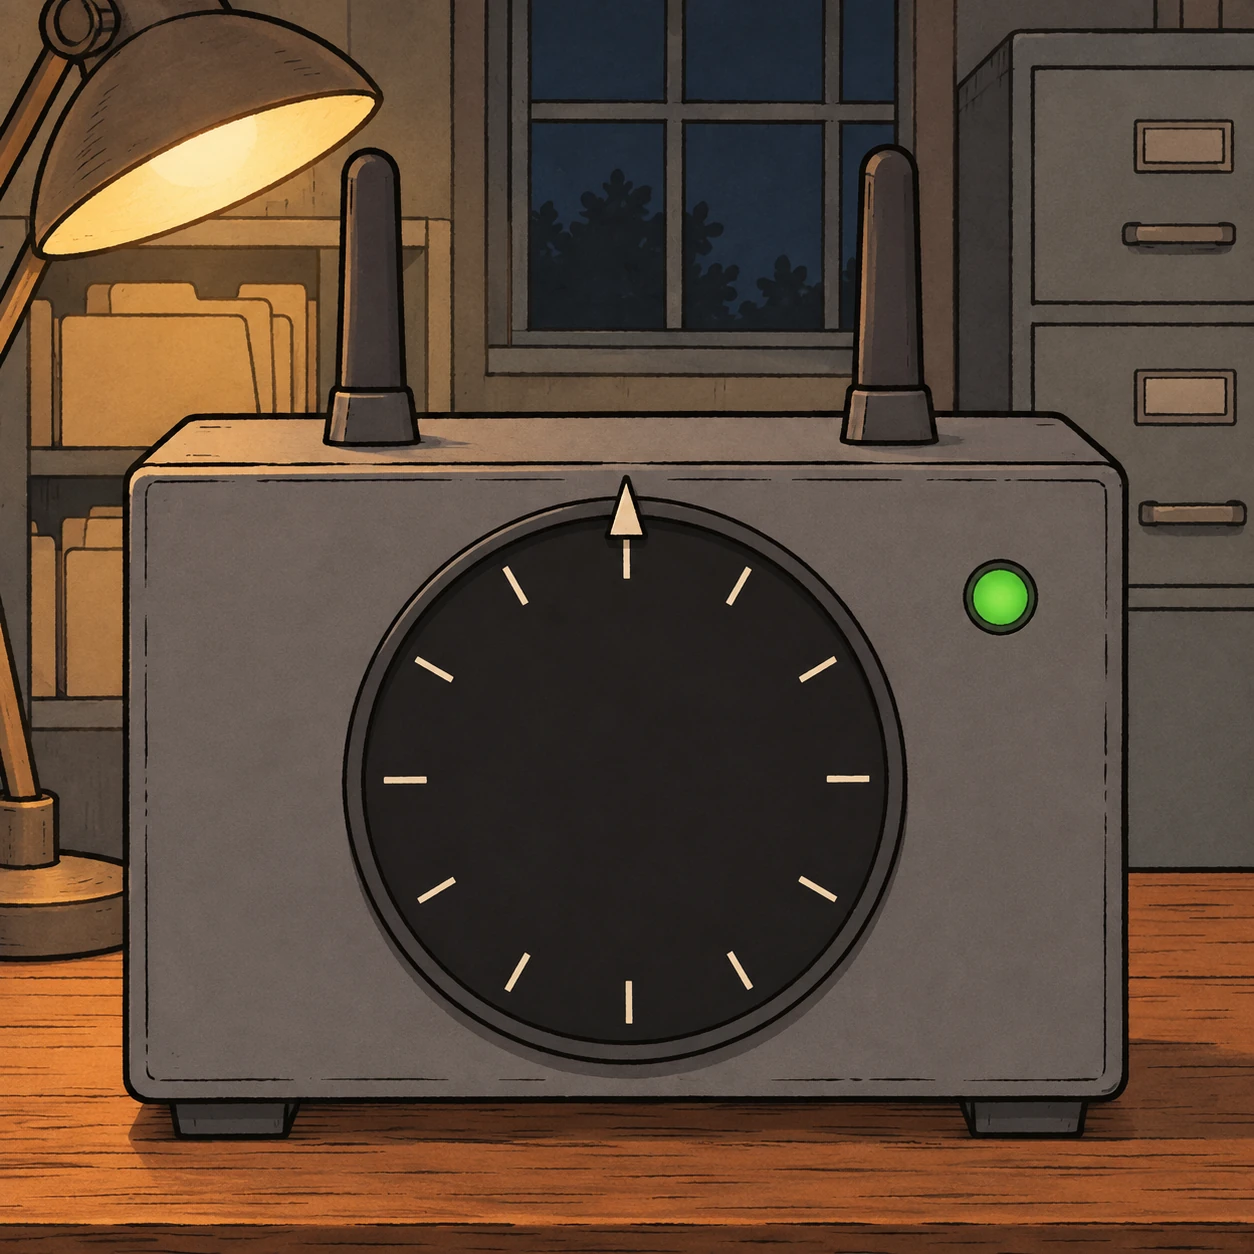
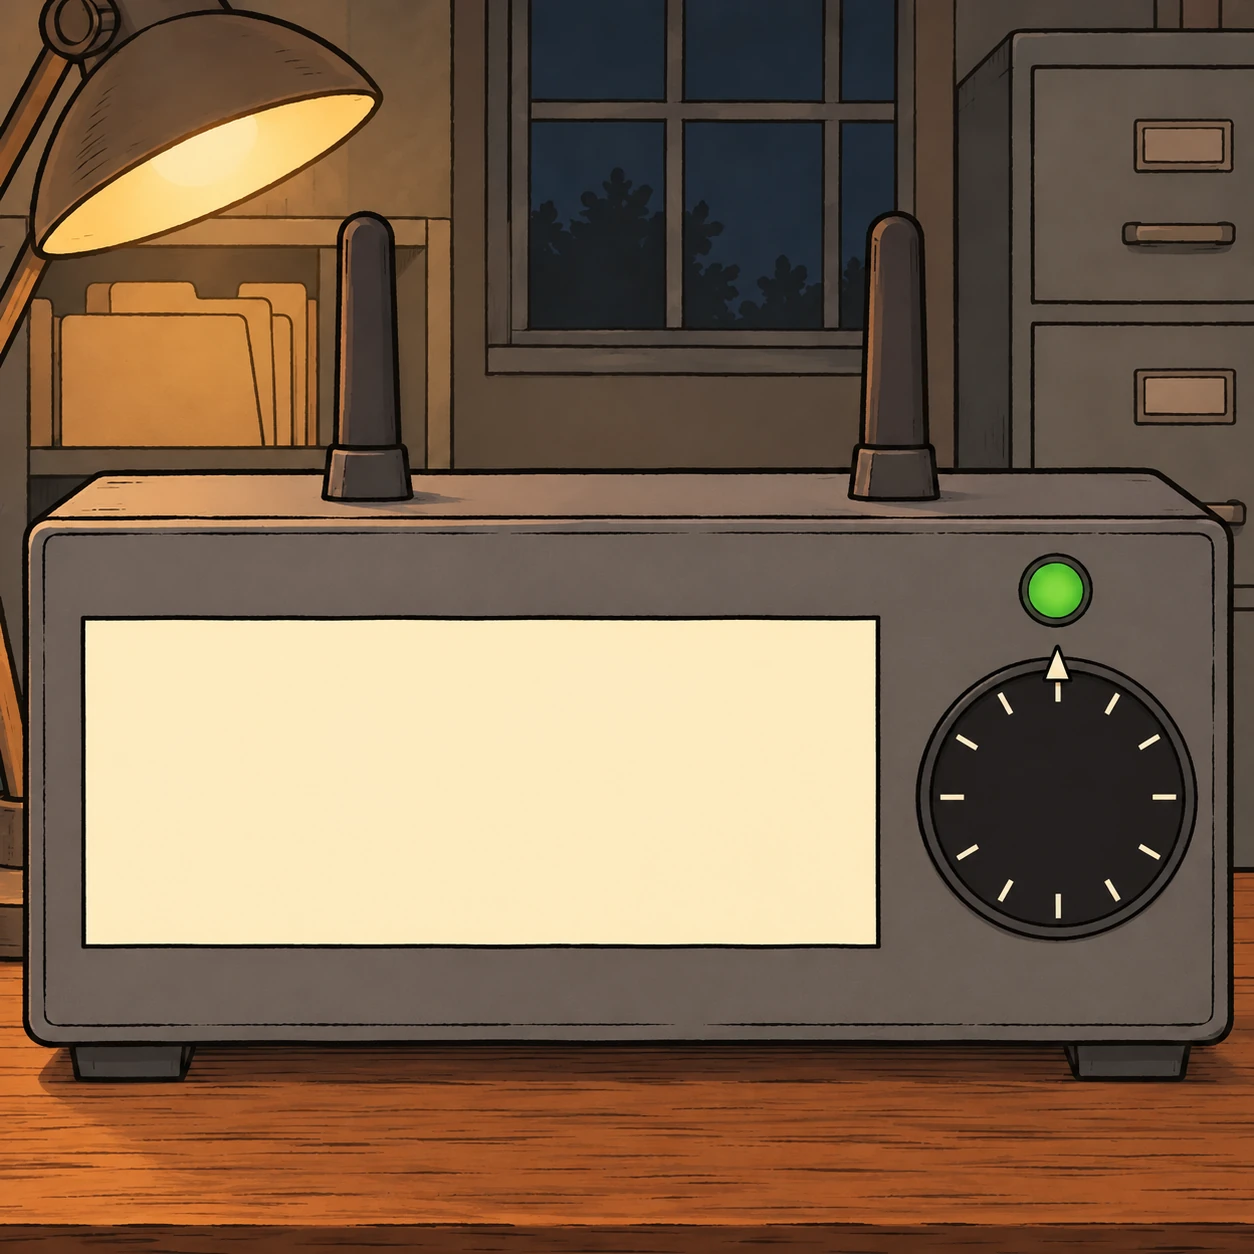
ANSWER-BOX-ART-SWAP: Roll's plans keypad and Prom's router redrawn; both answer boxes over the 20 x 4.5 mm floor (#769)
Lane: cloud, under Jon's lane exception of 14 Nov 21:45 for `tools/pack-generator/rooms/roll-for-initiative/` and `rooms/prom-budget/` (the two art files and their config `label_box` only) and `docs/todo.md`. Tier: Medium, merges on a green Gate; Project Claude reviews after merge. Not a draft. No merge-order dependency. Nothing a student or teacher sees on the site changes (the packs are unpublished DRAFT PDFs), so /updates/ has no line. No PDF and no PNG is committed.

## Jon's rulings (verbatim)

- 14 Nov 16:40, the box floor: "20 x 4.5 mm (Recommended)".
- 14 Nov 21:07: "I'll take those 2 art prompts please".
- 14 Nov 21:27, the two pictures uploaded: "ok that is done".
- 14 Nov 21:45: "anything else for cloud lane ?" (this task to cloud).

## Close-out carried (first commit, 5003a17)

ANSWER-BOX-CHECK (#767): merged as 3db30f1 via the GitHub connection under the standing ruling of 10 Nov 2026 (gh auth failed); main's check-site 43623614027 and phone-fit-full 43623613951 on 3db30f1, both green on the first attempt (from this contract, and read again through the GitHub connection: both `conclusion: success`, `run_attempt: 1`, head 3db30f1). Its contract moved to `docs/history/contracts/`; its entry in `docs/handover/cloud.md` records the merge commit, the route and the two runs.

## The two pictures
[…]

diff --git a/docs/todo.md b/docs/todo.md
@@ -287,7 +287,7 @@ see the START block's NEXT line. | **Code Claude**, batch by batch; **Jon** rule
 | KILN-FOLLOW-UPS | **The Kiln Disaster's follow-ups, RULED 29 Sep 2026 (Jon), not built on 11 Nov 2026.** (1) **Name him.** Add Mr Stephen Mudge's real name to the teacher page alongside "Smudgey", so a teacher opening it cold isn't confused (the name is only in `escape-rooms/kiln-disaster/room.js:43`'s hook, which `teacher.js` does not show). (2) **Add the explanation.** Document on the teacher page (not just canon §11.3) that a group hitting only named misconceptions skips some of Smudgey's wrong-entry lines by design. (3) **Set a floor on `a`.** Constrain the check-value lock generator so no future variant lands as lopsided as "2 + 48 ÷ 2" (`scripts/gen-escape-variants.py:638`; that variant is still in `room.js`). Moved from §6 (TODO-TIDY). | home lane (the shared variant generator) |
 | MONEY-THOUSANDS | **Money answers not in whole pounds, left unboxed by MONEY-ANSWERS (CLOUD-QUEUE-1111 PR 2, 11 Nov 2026) for Jon to rule.** MONEY-ANSWERS boxed every typed answer in pounds (£, £/kg, £/m, £/litre); these answers are amounts of money in another unit, and a £ inside the box would misstate them, so each is unchanged. **£k (thousands of pounds):** `stat-attack` CM1 'Annual salaries (£k)' and CM4 'House prices (£k)' (mean, midpoints, fx, standard deviation typed; the unit shows only in the table's class label, 'Salary (£k)', 'Price (£k)'); `chart-interrogator` B4, B5 (box plots) and CF4, CF6 (cumulative frequency) (Phase 1 readings typed in thousands; the unit shows in the context title and axis, '(£k)', and Phase 2's text writes £28k); `graph-sketcher` CM2 and CM13 (table values and reads of P, axis 'P (£k)'). **£100s:** `as-you-can-see` Stage 4's 'Value (£100s)' scatter (the estimate of y and the outlier's value, axis 'Value (£100s)'). **Pence:** `estimation-golf` 'If 8 pencils cost 96p, what does 1 pencil cost in pence?' (unit 'p', shown after the box). **Escape rooms (shared `escape-rooms/assets/engine.js`, home lane; outside MONEY-ANSWERS' lane exception):** `prom-budget` 'Transfer amount — whole pounds' and `library-jam` 'TOTAL TO REVERSE, IN POUNDS' (keypads, whose typed fallback keeps digits only, so a typed £ is dropped, not an emptied box), `big-school-begins` 'LEFT ON THE CARD (PENCE)' (keypad, pence), `canteen-hack` 'Baseline prices — whole pounds' (two dials whose typed fallback is `type="number"`, so a typed £ empties it; the rooms do not load answer.js). To rule: how each unit is boxed or shown (a £ box with 'thousands' beside it, the unit written after the box, or as it is), and whether the room engine gets money boxes. Recorded 11 Nov 2026 (contract CLOUD-QUEUE-1111, PR 2). | Jon (ruling); home lane (the room engine) |
 | CAR-TRAP-PACK-APPROVE | **The Headteacher's Car Trap's print pack: Jon proofreads the PDF and approves its wording** (contract CAR-TRAP-PACK and its Amendment 1, 14 Nov 2026). `tools/pack-generator/rooms/car-trap/config.json` has `wording_approved: null`, so pages 1 and 2 carry the DRAFT badge and `--final` refuses. Build it at home with `python -X utf8 tools/pack-generator/build_pack.py car-trap` (36 pages, 6 sets), proofread against the README's "What to proofread" 1-8, then record the approval in the config. Then the `--final` build goes to Tes; with Prom Budget and Roll for Initiative (CORE-PACKS-ROLL-PROM) it completes the ★★ Core bundle. **To look at:** (1) the bay width is asked for in centimetres (answer box "Bay width cm", key "215 cm"), and wherever the room's words give the answer or the wrong answer the pack gives both units (Amendment 2: hint 3 "2.45 m = 245 cm", the key's note "2.20 m = 220 cm", the worked solution); the bounds ("2.15 m ≤ width < 2.25 m", "from 2.15 m up to 2.25 m") and the specification's width stay in metres; (2) every clue card prints words from the config (`printed` and `caption`), listed in the PR; (3) Jon's defaults of 14 Nov: the charger's sticker says LOAD LIMITER and the formula is in bold in the caption (the sticker is 342 px wide, the longest formula needs 448 px at 11 pt), and the hatchback's sign is blank (250 × 134 px); new art with a sticker at least 520 px wide and a sign of about 900 × 500 px would let both print on the picture; (4) the hatchback is purple on its card and pale blue in the room's scene and win pictures (Jon, 14 Nov: leave it); (5) the long story: read-outs at 10 pt, the certificate's picture at 72% and the covers' at 73%. | Jon |
-| ROLL-PROM-PACKS-APPROVE | **Roll for Initiative's and The Prom Budget Embezzlement's print packs: Jon proofreads both PDFs and approves their wording** (contract CORE-PACKS-ROLL-PROM and its Amendment 1, 14 Nov 2026). Both configs have `wording_approved: null`, so the DRAFT badge is on page 1 and the read-outs and `--final` refuses. Build at home with `python -X utf8 tools/pack-generator/build_pack.py roll-for-initiative` (36 pages) and `python -X utf8 tools/pack-generator/build_pack.py prom-budget` (37 pages), proofread against the README's "What to proofread" 1-8, then record each approval in its config. With Car Trap (CAR-TRAP-PACK-APPROVE) the ★★ Core bundle can then be listed. **To look at, and new art to order (Jon, 14 Nov: ship as DRAFT, list for new art):** (1) Prom's card for The bronze bust shows a cash box (`prom-08-cash-box`; the art prompt barred statues), labelled "The practice version." from the bust's flavour text: a bust, or a different object, is wanted; (2) after ANSWER-BOX-CHECK (14 Nov: dark answer boxes print white, so Prom's portal keypad, 22.7 × 6.4 mm, and Roll's gate keypad, 22.5 × 5.3 mm, can be written on; Roll's spell keypad box is now 23.3 × 4.7 mm), two answer boxes are still under the 20 × 4.5 mm minimum, and no plain surface in either picture reaches it: Prom's router (6.5 × 23.9 mm, on its side panel) and Roll's plans keypad (14.8 × 3.3 mm). Each pack builds as a DRAFT with the box listed on page 1; once its wording is approved, or with `--final`, the build stops until the box is big enough. New art wanted for both: a blank display or plate of about 480 × 150 px or more on the 1254 px picture; (3) nothing is printed on Prom's Christmas card (187 px wide: "It is not December." does not fit at 11 pt) or on Roll's notice-board card (126 px: "NOTICES." does not fit); (4) Prom's long story (798 words): read-outs on two pages, covers with no picture, the certificate's story at 12.5 pt; (5) every print-only wording (`printed` and `caption`) is listed in the PR; (6) the live room now has a 60% interest rate (£500 for 2 years) and a £3125 deposit (20% for 7 years): the only sets that make six answers. | Jon |
+| ROLL-PROM-PACKS-APPROVE | **Roll for Initiative's and The Prom Budget Embezzlement's print packs: Jon proofreads both PDFs and approves their wording** (contract CORE-PACKS-ROLL-PROM and its Amendment 1, 14 Nov 2026). Both configs have `wording_approved: null`, so the DRAFT badge is on page 1 and the read-outs and `--final` refuses. Build at home with `python -X utf8 tools/pack-generator/build_pack.py roll-for-initiative` (36 pages) and `python -X utf8 tools/pack-generator/build_pack.py prom-budget` (37 pages), proofread against the README's "What to proofread" 1-8, then record each approval in its config. With Car Trap (CAR-TRAP-PACK-APPROVE) the ★★ Core bundle can then be listed. **To look at, and new art to order (Jon, 14 Nov: ship as DRAFT, list for new art):** (1) Prom's card for The bronze bust shows a cash box (`prom-08-cash-box`; the art prompt barred statues), labelled "The practice version." from the bust's flavour text: a bust, or a different object, is wanted; (2) the answer boxes: none is under the 20 × 4.5 mm minimum now, and neither pack lists a box on page 1 (ANSWER-BOX-ART-SWAP, 14 Nov: Jon's redrawn pictures, each with a pale blank display; Roll's plans keypad box now measures 34.1 × 5.9 mm, was 14.8 × 3.3 mm, and Prom's router's 35.8 × 14.0 mm, was 6.5 × 23.9 mm; neither is filled. From ANSWER-BOX-CHECK: Prom's portal keypad, 22.7 × 6.4 mm, and Roll's gate keypad, 22.5 × 5.3 mm, print white; Roll's spell keypad box is 23.3 × 4.7 mm). No new art is owed for a box; (3) nothing is printed on Prom's Christmas card (187 px wide: "It is not December." does not fit at 11 pt) or on Roll's notice-board card (126 px: "NOTICES." does not fit); (4) Prom's long story (798 words): read-outs on two pages, covers with no picture, the certificate's story at 12.5 pt; (5) every print-only wording (`printed` and `caption`) is listed in the PR; (6) the live room now has a 60% interest rate (£500 for 2 years) and a £3125 deposit (20% for 7 years): the only sets that make six answers. | Jon |
 | COMIC-CAPER-REUPLOAD | **The Comic Caper's sold pack has changed: its covers print white answer boxes** (ANSWER-BOX-CHECK, 14 Nov 2026; pages 6, 10, 14, 18, 22 and 26, nothing else). Rebuild with `python -X utf8 tools/pack-generator/build_pack.py comic-caper --final` and replace the Tes file. | Jon |
 | CHRISTMAS-LIBRARY-KILN-REUPLOAD | **The Christmas Tree Fiasco's sold pack has changed: its hint cards (pages 30 to 35) keep "50 cm" on one line** (ANSWER-BOX-CHECK, 14 Nov 2026: a figure no longer parts from its unit; the same words, one line break moved). Rebuild with `python -X utf8 tools/pack-generator/build_pack.py christmas-tree-fiasco --final` and replace the Tes file. Library Jam's and Kiln Disaster's packs came out pixel-identical: nothing to do. | Jon |
 

diff --git a/docs/handover/contracts/2026-11-14-answer-box-art-swap.md b/docs/handover/contracts/2026-11-14-answer-box-art-swap.md
@@ -1,0 +1,26 @@
+ANSWER-BOX-ART-SWAP (Project Claude, Sat 14 Nov 2026 21:50)
+Recommended: Sonnet or Opus, effort medium: two pictures swapped and two label boxes set, with every other pack page held pixel-identical.
+LANE: cloud, a fresh session (read AGENTS.md and docs/handover/cloud.md's standing rules and container setup first). TIER: Medium (merge on green; Project Claude reviews after merge). START: now. One PR. Branch from current origin/main (8f2b84f or newer).
+LANE EXCEPTION (Jon, 14 Nov 21:45, "anything else for cloud lane ?", sending this swap to the cloud lane): this PR may change tools/pack-generator/rooms/roll-for-initiative/ and rooms/prom-budget/ (the two art files and their config label_box only), docs/todo.md. Home normally owns these.
+PARALLEL LANE: home may be working on the homepage (index.html) and the UGH-STATS-QUESTIONS close-out. Touch neither; if docs/todo.md conflicts, merge main in and keep both sides.
+CLOSE-OUT CARRIED (first commit): ANSWER-BOX-CHECK (#767, squash-merged as 3db30f1 through the GitHub connection under the standing ruling of 10 Nov 2026, gh auth failing): contract to docs/history/contracts/; cloud.md's entry (now "PR #767 OPEN") records the merge commit, the route, and main's check-site 43623614027 and phone-fit-full 43623613951 on 3db30f1, both green on the first attempt. Save this contract verbatim in docs/handover/contracts/ in the same commit.
+MERGE: merge-pr.py on a green Gate, or the standing 10 Nov merge-route ruling if gh auth fails (message = PR body word for word). After merge, delete the branch art/answer-box-redraws.
+
+JON'S RULINGS (verbatim in the PR body): 14 Nov 16:40, the box floor "20 x 4.5 mm (Recommended)"; 14 Nov 21:07, "I'll take those 2 art prompts please"; 14 Nov 21:27, the two pictures uploaded ("ok that is done"); 14 Nov 21:45, "anything else for cloud lane ?" (this task to cloud).
+
+TASK: Replace Roll for Initiative's plans keypad and Prom Budget's router with Jon's redrawn pictures, whose blank displays take an answer box above the 20 × 4.5 mm floor, so both packs build with no box under it.
+
+ROOT CAUSE: #767 found two answer boxes no surface on the current pictures could fix: Roll fortress-plan-scale (rfi-10-plans-keypad, 14.8 × 3.3 mm) and Prom wifi-venn-router (prom-11-router-dial, 6.5 × 23.9 mm). Jon has had both redrawn with a wide pale display: origin/art/answer-box-redraws (799748c), art-incoming/rfi-10-plans-keypad.png and art-incoming/prom-11-router-dial.png, 1254 × 1254 PNG.
+
+CLASS CHECK: Local. Two pictures and two config entries; the box rules (fill, floor) are already in the generator (#767) and are not touched.
+
+EXACT CHANGE:
+1. Take the two PNGs from origin/art/answer-box-redraws (git checkout that commit's files; do not merge the branch). Convert each to WebP at 1254 × 1254, replacing tools/pack-generator/rooms/roll-for-initiative/art/rfi-10-plans-keypad.webp and tools/pack-generator/rooms/prom-budget/art/prom-11-router-dial.webp (same names, so nothing else references change). Use the same encoder settings the existing pack art was made with if recorded (git log of those files); else Pillow WEBP, quality 90, method 6. State the method and the new file sizes. art-incoming/ never lands on main.
+2. label_box (measured by Project Claude on the PNGs; check them on your WebP and say if they differ):
+ - Roll fortress-plan-scale (rfi-10-plans-keypad): [262, 312, 991, 439]. The display's flat area is x 249–1003, y 301–450 (grey about 225); this box is inset 12–13 px, not 2%, because a 2% inset leaves exactly 4.5 mm high. Expected on the cover about 34.1 × 5.9 mm; grey about 225, so no fill.
+ - Prom wifi-venn-router (prom-11-router-dial): [98, 633, 863, 932]. Flat area x 86–874, y 621–943 (grey about 235). Expected about 35.7 × 14.0 mm; no fill.
+3. Build both packs (not --final: wording not yet approved). Both must report no answer box under the floor, and page 1's DRAFT notes must no longer list a box. Build the other five packs and compare with main's build page by page (text and pixels at 100 dpi): pixel-identical. In Roll and Prom, the only changed pages are the covers that carry these pictures and page 1 (the notes gone); list them.
+4. docs/todo.md: in ROLL-PROM-PACKS-APPROVE remove the two new-art items (say the boxes now measure X × Y mm); what remains is Jon's proofread and wording approval. cloud.md entry.
+DO NOT TOUCH: build_pack.py, final.py, lockcheck.py and every check; every other picture and every other field in the two configs; the room pages, variants.json, room.js; the other five rooms; index.html, ugh-stats/ and games/ (home lane). Never commit a PDF or the PNGs.
+SUCCESS CONDITION: both pictures on main as WebP; both boxes measured on the cover at or near the expected sizes and over the floor, unfilled; Roll and Prom build with no box failure and no box in the DRAFT notes; the other five packs pixel-identical; selftest passes unchanged; todo updated; Gate green; merged; main's check-site and phone-fit-full on the merge commit green and reported; branch art/answer-box-redraws deleted; committed, handover documented.
+STOP IF: either PNG is not 1254 × 1254 or differs from what the branch holds at 799748c; either box's grey on the WebP is under 180 or its range wider than 20 levels (not flat); either box measures under 20 × 4.5 mm on the cover; any page of the other five packs changes; any check would have to change.

diff --git a/docs/handover/cloud.md b/docs/handover/cloud.md
@@ -77,9 +77,18 @@ start-up load). When the work merges, move the file to `docs/history/contracts/`
 
 **Merges by the standing route (Jon's ruling of 10 Nov):** the merge message is the PR body word for word, as merge-pr.py writes it (with its skip markers disarmed). #724's was a condensed form; recorded in its close-out.
 
-## 2026-11-14 (cloud): ANSWER-BOX-CHECK (`docs/handover/contracts/2026-11-14-answer-box-check.md`; Jon's rulings 14 Nov 16:33 and 16:40)
+## 2026-11-14 (cloud): ANSWER-BOX-ART-SWAP (`docs/handover/contracts/2026-11-14-answer-box-art-swap.md`; Jon's rulings 14 Nov 16:40 to 21:45)
 
-PR #767 OPEN, merging on green (Medium). Agent Claude Code (cloud), a fresh session, branch `claude/inspiring-heisenberg-hfukwn` from main 22e1e16; first commit c433225 (this contract; #764's close-out, in its entry below). No claim commit: no game is touched.
+PR #769 OPEN, merging on green (Medium). Agent Claude Code (cloud), a fresh session, branch `claude/gallant-curie-0j690i` from main 8f2b84f; first commit 5003a17 (this contract; #767's close-out, in its entry below). No claim commit: no game is touched.
+Done: Jon's two redrawn pictures (`origin/art/answer-box-redraws`, 799748c) replace Roll's `rfi-10-plans-keypad.webp` and Prom's `prom-11-router-dial.webp` (Pillow WEBP, quality 90, method 6; 139 and 112 KB). `label_box`: Roll `fortress-plan-scale` [262, 312, 991, 439], 34.1 × 5.9 mm on the cover, grey 225.2; Prom `wifi-venn-router` [98, 633, 863, 932], 35.8 × 14.0 mm, grey 235.2; neither filled. Both packs build as DRAFT with no box under the floor and no DRAFT notes.
+Proof: all seven packs built on main and the branch, compared page by page (text, and pixels at 100 dpi): 238 of 252 identical. Changed: page 1 and the six covers of Roll (6, 10, 14, 18, 22, 26) and of Prom (7, 11, 15, 19, 23, 27). Selftest 67/67, unchanged.
+Next: merge on a green Gate (gh auth fails: the 10 Nov route), report main's two runs, delete `art/answer-box-redraws`. Open for Jon: todo ROLL-PROM-PACKS-APPROVE (proofread, wording).
+
+Record: agent Claude Code; wall 0:13 from the contract's stamp (21:50) to the PR opened for its Gate (22:03 by the container's clock); review cycles 0; amendments 0; usage n/a.
+
+## 2026-11-14 (cloud): ANSWER-BOX-CHECK (`docs/history/contracts/2026-11-14-answer-box-check.md`; Jon's rulings 14 Nov 16:33 and 16:40)
+
+MERGED: #767 squash-merged as 3db30f1. Merged via the GitHub connection under the standing ruling of 10 Nov 2026 (gh auth failed). Main on 3db30f1: check-site 43623614027 GREEN and phone-fit-full 43623613951 GREEN, both on the first attempt (close-out carried by ANSWER-BOX-ART-SWAP's first commit, from its contract and read again through the GitHub connection). Agent Claude Code (cloud), a fresh session, branch `claude/inspiring-heisenberg-hfukwn` from main 22e1e16; first commit c433225 (this contract; #764's close-out, in its entry below). No claim commit: no game is touched.
 Done, all in `tools/pack-generator/build_pack.py` (no room's words, numbers or art):
 - **Fill.** `answer_box_greys()`: the build's Chromium decodes each answer picture (no Pillow in CI or the venv, and none added) and returns the channel sums inside its `label_box`; Python works the luma. Under `WRITE_FILL_BELOW = 180` the box gets `.write.fill` (white inside the same dashed outline). Eight filled, exactly the contract's list: Comic Caper 78, 145, 78; Car Trap 107, 107; Prom 31, 98; Roll 34. `write_fill_problems()` checks every cover as drawn.
 - **Size.** `FIT_JS` measures every `.write`; `write_size_gate()` stops an approved room and any `--final` under `WRITE_MIN_W_MM = 20` or `WRITE_MIN_H_MM = 4.5`; a DRAFT build goes on, prints each, and page 1 carries DRAFT notes (a dashed block between heading and text, outside `.main`, so page 1's 150 words are not touched). The five other packs pass (narrowest 23.0 mm, lowest 4.9 mm).
